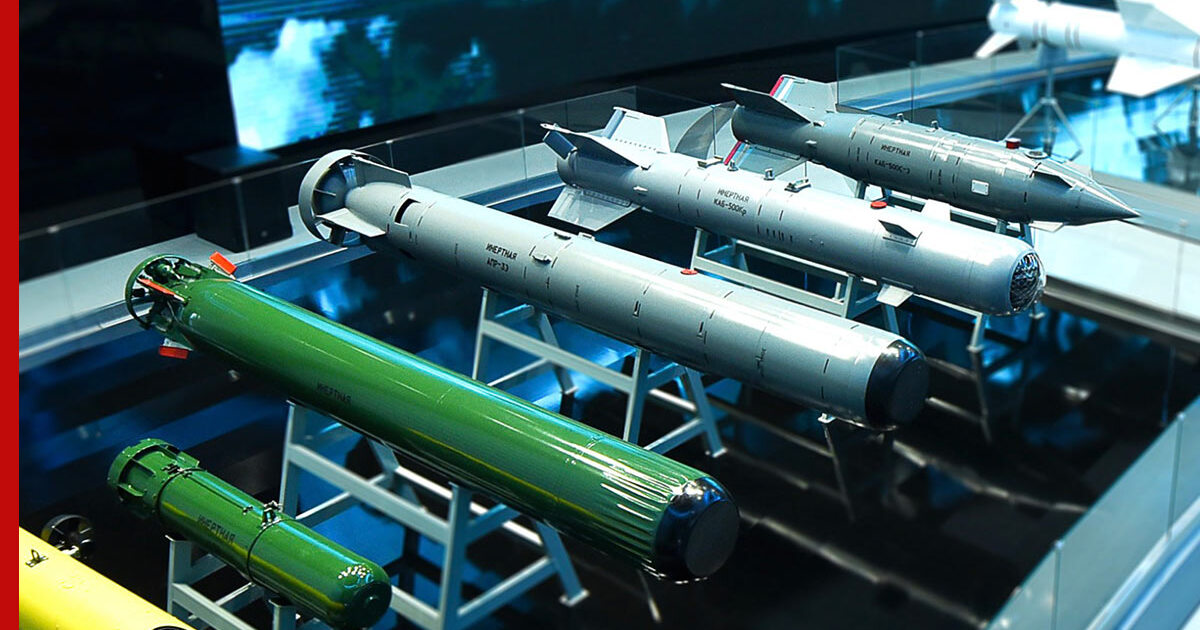
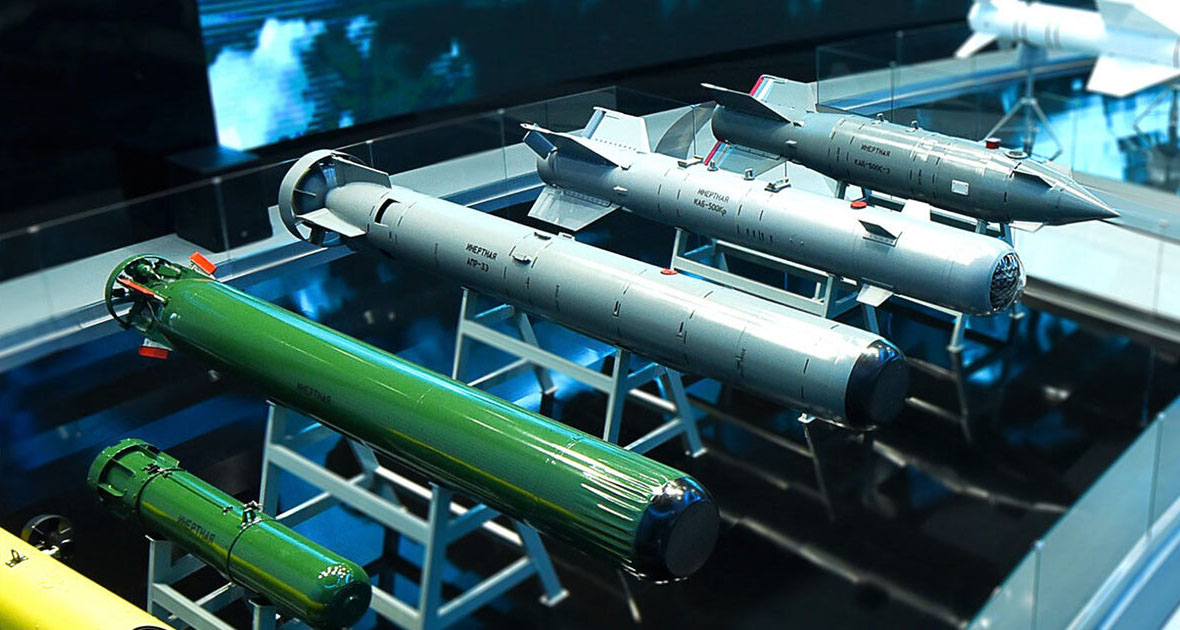
fixture.json и custom

diff --git a/catalog/migrations/0004_alter_category_description_alter_category_name_and_more.py b/catalog/migrations/0004_alter_category_description_alter_category_name_and_more.py
@@ -1,0 +1,61 @@
+# Generated by Django 6.1.1 on 2026-10-15 17:24
+
+import django.db.models.deletion
+from django.db import migrations, models
+
+
+class Migration(migrations.Migration):
+
+    dependencies = [
+        ("catalog", "0003_alter_product_image"),
+    ]
+
+    operations = [
+        migrations.AlterField(
+            model_name="category",
+            name="description",
+            field=models.TextField(blank=True, null=True, verbose_name="Характеристика категории"),
+        ),
+        migrations.AlterField(
+            model_name="category",
+            name="name",
+            field=models.CharField(max_length=100, verbose_name="Наименование"),
+        ),
+        migrations.AlterField(
+            model_name="product",
+            name="category",
+            field=models.ForeignKey(
+                on_delete=django.db.models.deletion.CASCADE, to="catalog.category", verbose_name="Категория"
+            ),
+        ),
+        migrations.AlterField(
+            model_name="product",
+            name="created_at",
+            field=models.DateField(verbose_name="Дата создания"),
+        ),
+        migrations.AlterField(
+            model_name="product",
+            name="description",
+            field=models.TextField(blank=True, null=True, verbose_name="Описание продукта"),
+        ),
+        migrations.AlterField(
+            model_name="product",
+            name="image",
+            field=models.ImageField(blank=True, null=True, upload_to="catalog/image", verbose_name="Изображение"),
+        ),
+        migrations.AlterField(
+            model_name="product",
+            name="name",
+            field=models.CharField(max_length=100, verbose_name="Наименование"),
+        ),
+        migrations.AlterField(
+            model_name="product",
+            name="price",
+            field=models.DecimalField(decimal_places=2, max_digits=5),
+        ),
+        migrations.AlterField(
+            model_name="product",
+            name="updated_at",
+            field=models.DateField(verbose_name="Дата последнего изменения"),
+        ),
+    ]

diff --git a/catalog/management/commands/catalog_data_fixture.py b/catalog/management/commands/catalog_data_fixture.py
@@ -1,0 +1,35 @@
+from django.core.management.base import BaseCommand
+from django.core.management import call_command
+import os
+
+class Command(BaseCommand):
+    help = 'Загружает фикстуру catalog_fixtures.json для моделей блога'
+
+    def add_arguments(self, parser):
+        parser.add_argument(
+            '--fixture',
+            type=str,
+            default='catalog_fixtures.json',
+            help='Путь к файлу фикстуры (по умолчанию: catalog_fixtures.json)'
+        )
+        parser.add_argument(
+            '--ignore',
+            action='store_true',
+            help='Игнорировать ошибки по несуществующим объектам (--ignorenonexistent)'
+        )
+
+    def handle(self, *args, **options):
+        fixture_path = options['fixture']
+
+        if not os.path.isfile(fixture_path):
+            self.stdout.write(self.style.ERROR(f'Файл фикстуры не найден: {fixture_path}'))
+            return
+
+        self.stdout.write(self.style.WARNING(f'Начинаю загрузку фикстуры: {fixture_path}'))
+
+        try:
+            call_command('loaddata', fixture_path, ignore=options['ignore'])
+            self.stdout.write(self.style.SUCCESS('Фикстура успешно загружена!'))
+        except Exception as e:
+            self.stdout.write(self.style.ERROR(f'Ошибка при загрузке фикстуры: {e}'))
+            raise

diff --git a/blog/management/commands/blog_data_fixture.py b/blog/management/commands/blog_data_fixture.py
@@ -1,0 +1,35 @@
+from django.core.management.base import BaseCommand
+from django.core.management import call_command
+import os
+
+class Command(BaseCommand):
+    help = 'Загружает фикстуру blog_fixture.json для моделей блога'
+
+    def add_arguments(self, parser):
+        parser.add_argument(
+            '--fixture',
+            type=str,
+            default='blog_fixture.json',
+            help='Путь к файлу фикстуры (по умолчанию: blog_fixture.json)'
+        )
+        parser.add_argument(
+            '--ignore',
+            action='store_true',
+            help='Игнорировать ошибки по несуществующим объектам (--ignorenonexistent)'
+        )
+
+    def handle(self, *args, **options):
+        fixture_path = options['fixture']
+
+        if not os.path.isfile(fixture_path):
+            self.stdout.write(self.style.ERROR(f'Файл фикстуры не найден: {fixture_path}'))
+            return
+
+        self.stdout.write(self.style.WARNING(f'Начинаю загрузку фикстуры: {fixture_path}'))
+
+        try:
+            call_command('loaddata', fixture_path, ignore=options['ignore'])
+            self.stdout.write(self.style.SUCCESS('Фикстура успешно загружена!'))
+        except Exception as e:
+            self.stdout.write(self.style.ERROR(f'Ошибка при загрузке фикстуры: {e}'))
+            raise

diff --git a/blog/migrations/0002_alter_blogentry_content_alter_blogentry_created_at_and_more.py b/blog/migrations/0002_alter_blogentry_content_alter_blogentry_created_at_and_more.py
@@ -1,0 +1,38 @@
+# Generated by Django 6.1.1 on 2026-10-15 17:24
+
+from django.db import migrations, models
+
+
+class Migration(migrations.Migration):
+
+    dependencies = [
+        ("blog", "0001_initial"),
+    ]
+
+    operations = [
+        migrations.AlterField(
+            model_name="blogentry",
+            name="content",
+            field=models.TextField(blank=True, null=True, verbose_name="Содержание записи"),
+        ),
+        migrations.AlterField(
+            model_name="blogentry",
+            name="created_at",
+            field=models.DateField(verbose_name="Дата создания записи"),
+        ),
+        migrations.AlterField(
+            model_name="blogentry",
+            name="name",
+            field=models.CharField(max_length=100, verbose_name="Наименование записи"),
+        ),
+        migrations.AlterField(
+            model_name="blogentry",
+            name="preview",
+            field=models.ImageField(blank=True, null=True, upload_to="blog/image", verbose_name="Превью записи"),
+        ),
+        migrations.AlterField(
+            model_name="blogentry",
+            name="publication",
+            field=models.BooleanField(default=True, verbose_name="Опубликовать"),
+        ),
+    ]
